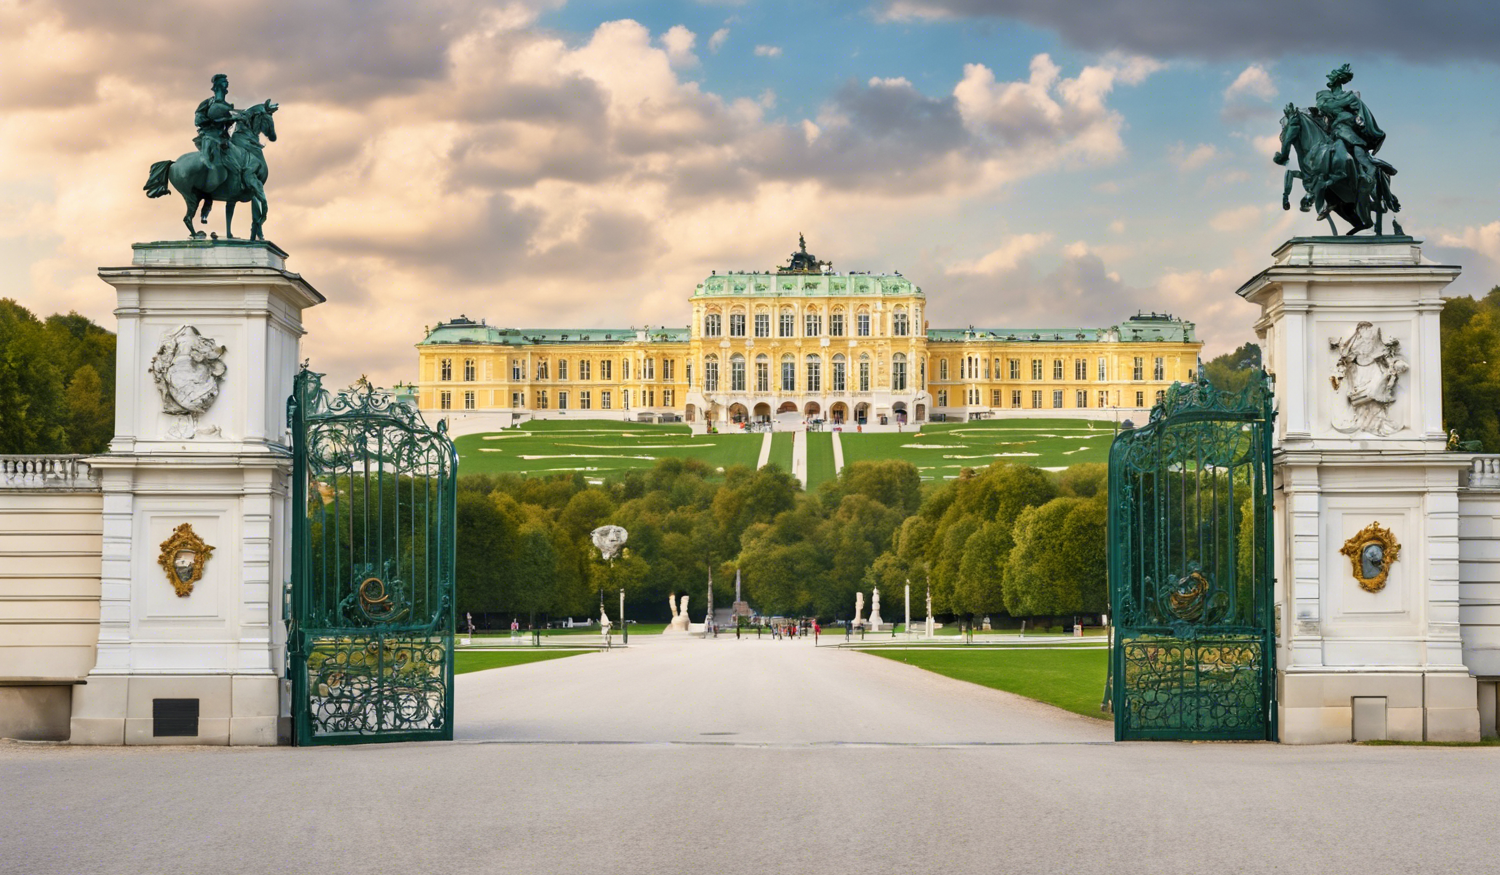
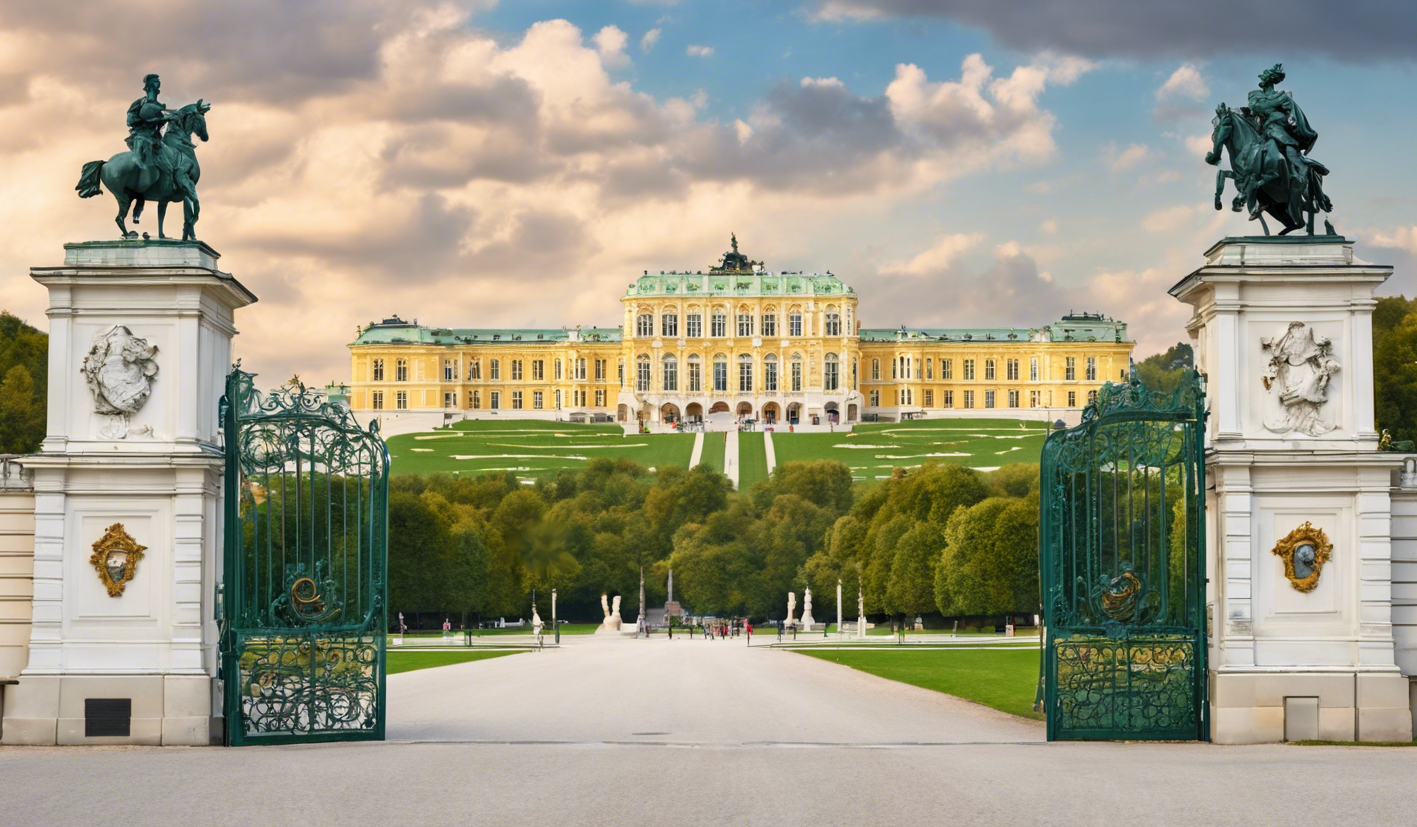
Optimized images, cleared css

diff --git a/index.html b/index.html
@@ -23,6 +23,9 @@
     <!-- Custom CSS -->
     <link rel="stylesheet" href="assets/css/styles.css">
 
+    <!-- Fonat Awesone -->
+    <script src="https://kit.fontawesome.com/83f5109055.js" crossorigin="anonymous"></script>
+
 </head>
 <body class="d-flex flex-column min-vh-100">
 
@@ -68,7 +71,7 @@
         <!-- section with hero image -->
         <section class="row gx-6 mt-4 mx-2 align-items-center section">
             <div class="col-sm-12 col-md-8 col-lg-8 heroImageContainer">
-                <img src="assets/images/vienna-schoenbrunn-castle-medium.webp" alt="Schoenbrunn palace" class="img-fluid float-start">
+                <img src="assets/images/vienna-schoenbrunn-castle-main-gate.webp" alt="Schoenbrunn palace" class="img-fluid float-start">
             </div>
             <div class="col-sm-12 col-md-4 col-lg-4 explore">
                 <h1 class="px-4 py-4">Explore Sch&ouml;nbrunn</h1>              
@@ -91,7 +94,7 @@
                 <div class="col-md-4">
                     <div class="thumbnail">
                     <a href="assets/images/gallery/Ark-Fountain-Schönbrunnn-park-large.png" target="_blank">
-                        <img src="assets/images/gallery/Ark-Fountain-Schönbrunnn-park-300.webp" alt="Ark Fountain in Schönbrunnn park" title="Ark Fountain in Schönbrunnn park">
+                        <img src="assets/images/gallery/optimized/Beautiful-fountainin-the-Vienna-Schoenbrunn-park-2.webp" alt="Ark Fountain in Schönbrunnn park" title="Ark Fountain in Schönbrunnn park">
                         <div class="caption">
                         <p><i class="fa-solid fa-magnifying-glass"></i> The fountain of Viktory</p>
                         </div>
@@ -101,7 +104,7 @@
                 <div class="col-md-4">
                     <div class="thumbnail">
                     <a href="assets/images/gallery/Carriage-2-Schönbrunnn-park-large.png" target="_blank">
-                        <img src="assets/images/gallery/Carriage-2-Schönbrunnn-park-300.webp" alt="Carriage riding in Schönbrunnn park" title="Carriage riding in Schönbrunnn park">
+                        <img src="assets/images/gallery/optimized/carriage-running-through-vienna-schoenbrunn-park.webp" alt="Carriage riding in Schönbrunnn park" title="Carriage riding in Schönbrunnn park">
                         <div class="caption">
                         <p><i class="fa-solid fa-magnifying-glass"></i> Ride in a carriage through the park</p>
                         </div>
@@ -111,7 +114,7 @@
                 <div class="col-md-4">
                     <div class="thumbnail">
                     <a href="assets/images/gallery/Maze-Schönbrunnn-park-large.png" target="_blank">
-                        <img src="assets/images/gallery/Maze-Schönbrunnn-park-300.webp" alt="Maze in Schönbrunnn park" title="Maze in Schönbrunnn park">
+                        <img src="assets/images/gallery/optimized/the-maze-of-green-decorative-shrubs.webp" alt="Maze in Schönbrunnn park" title="Maze in Schönbrunnn park">
                         <div class="caption">
                         <p><i class="fa-solid fa-magnifying-glass"></i> The famouse Sch&ouml;nbtunn Maze</p>
                         </div>
@@ -123,7 +126,7 @@
                     <div class="col-md-4">
                         <div class="thumbnail">
                             <a href="assets/images/gallery/The-Schönbrunnn-park-view-from-above-large.png" target="_blank">
-                            <img src="assets/images/gallery/The-Schönbrunnn-park-view-from-above-300.webp" alt="The Schönbrunnn park view from above" title="The Schönbrunnn park view from above">
+                            <img src="assets/images/gallery/optimized/the-Schoenbrunnn-park-view-from-above.webp" alt="The Schönbrunnn park view from above" title="The Schönbrunnn park view from above">
                             <div class="caption">
                                 <p><i class="fa-solid fa-magnifying-glass"></i> Main park, view from above</p>
                             </div>
@@ -133,7 +136,7 @@
                     <div class="col-md-4">
                         <div class="thumbnail">
                             <a href="assets/images/gallery/The-Schönbrunnn-park-view-from-above-large-2.png" target="_blank">
-                            <img src="assets/images/gallery/Fountain-Schönbrunnn-park-300_2.webp" alt="Nature">
+                            <img src="assets/images/gallery/optimized/Beautiful-fountainin-the-Vienna-Schoenbrunn-park-1.webp" alt="The fountain of Neptune">
                             <div class="caption">
                                 <p><i class="fa-solid fa-magnifying-glass"></i> The fountain of Neptune</p>
                             </div>
@@ -143,7 +146,7 @@
                     <div class="col-md-4">
                         <div class="thumbnail">
                             <a href="assets/images/gallery/Gallery-Schönbrunnn-park-large.png" target="_blank">
-                            <img src="assets/images/gallery/Gallery-Schönbrunnn-park-300.webp" alt="Fjords">
+                            <img src="assets/images/gallery/optimized/Beautiful-fountainin-the-Vienna-Schoenbrunn-park-3.webp" alt="The fountain of emperror's tears">
                             <div class="caption">
                                 <p><i class="fa-solid fa-magnifying-glass"></i> The fountain of emperror's tears</p>
                             </div>

diff --git a/assets/css/styles.css b/assets/css/styles.css
@@ -100,43 +100,24 @@ A:hover{
 
 /* Header */
 #hero{
-    /* display: flex;
-    flex-wrap: wrap;
-    align-items: center;
-    justify-content: space-around; */
     margin-top: 20px;
-    /* border:  2px green solid; */
 }
 #hero .section{
     padding-top: 0;
-    /* display: flex;
-    align-items: stretch; */
-    /* background-image:url(../images/Carriage_transparent_infrontofthe_palace.png);
-    background-repeat: no-repeat;
-    background-position: right bottom;
-    background-size:contain; */
     text-align: center;
 }
 #hero .heroImageContainer{
-    /* border: 2px red solid; */
     padding: 0;
     margin: 0;
     
 }
 #hero img {
-    /* align-self: center;
-    display: inline-block;
-    position: relative; */
     margin: 0px auto;
     border-top-left-radius: 50px;
     box-shadow: rgba(0, 0, 0, 0.45) 20px 20px 20px -20px;
   }
 #header .lead {
     font-family: var(--secondary-font);
-}
-.explore h1{
-    /* padding:  15px;
-    text-align: center; */
 }
 
 /* Main area */
